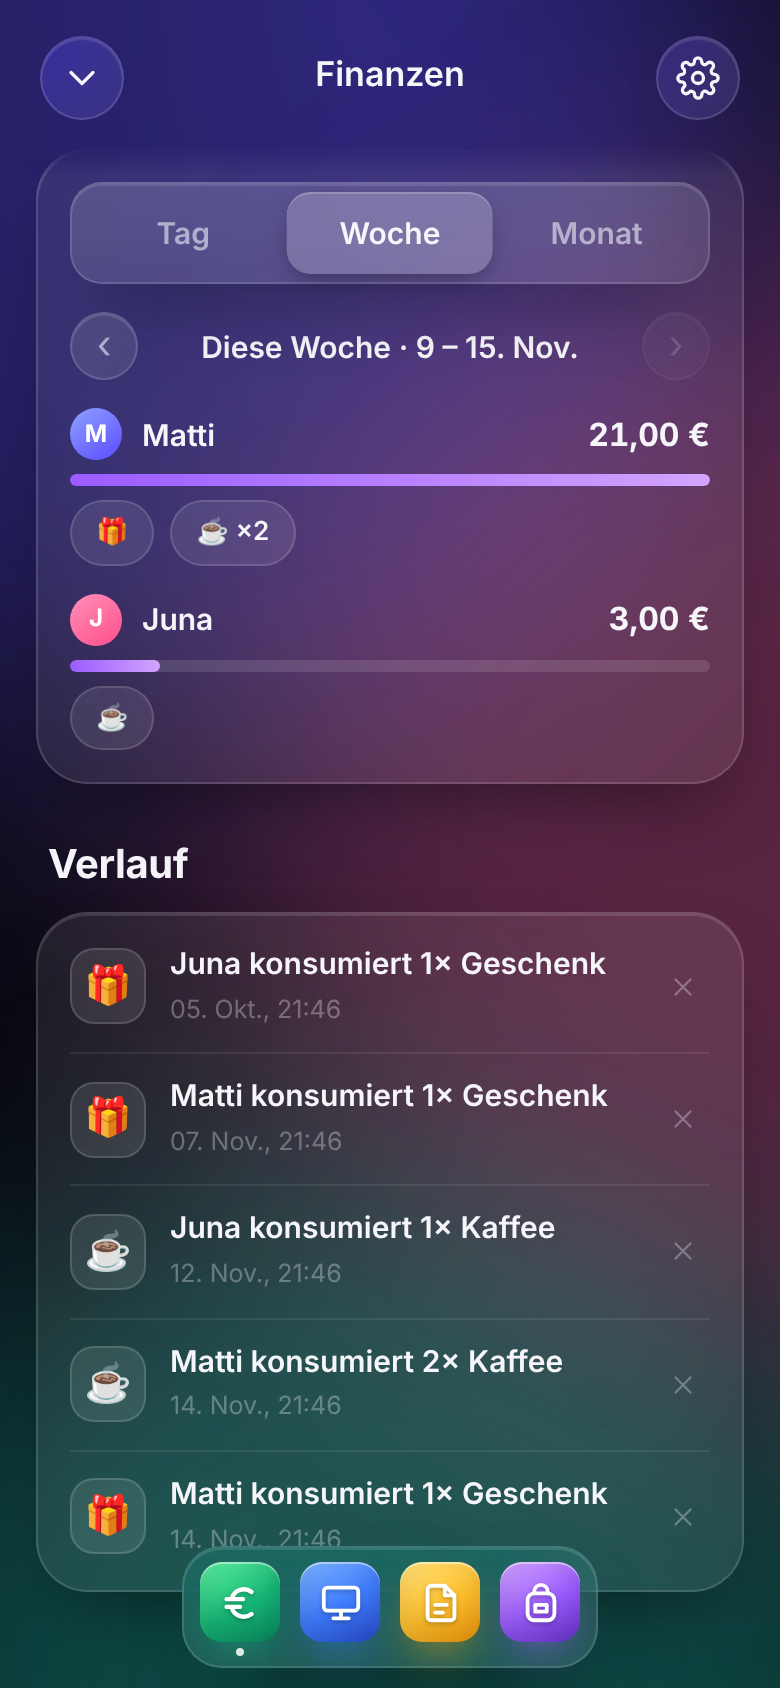
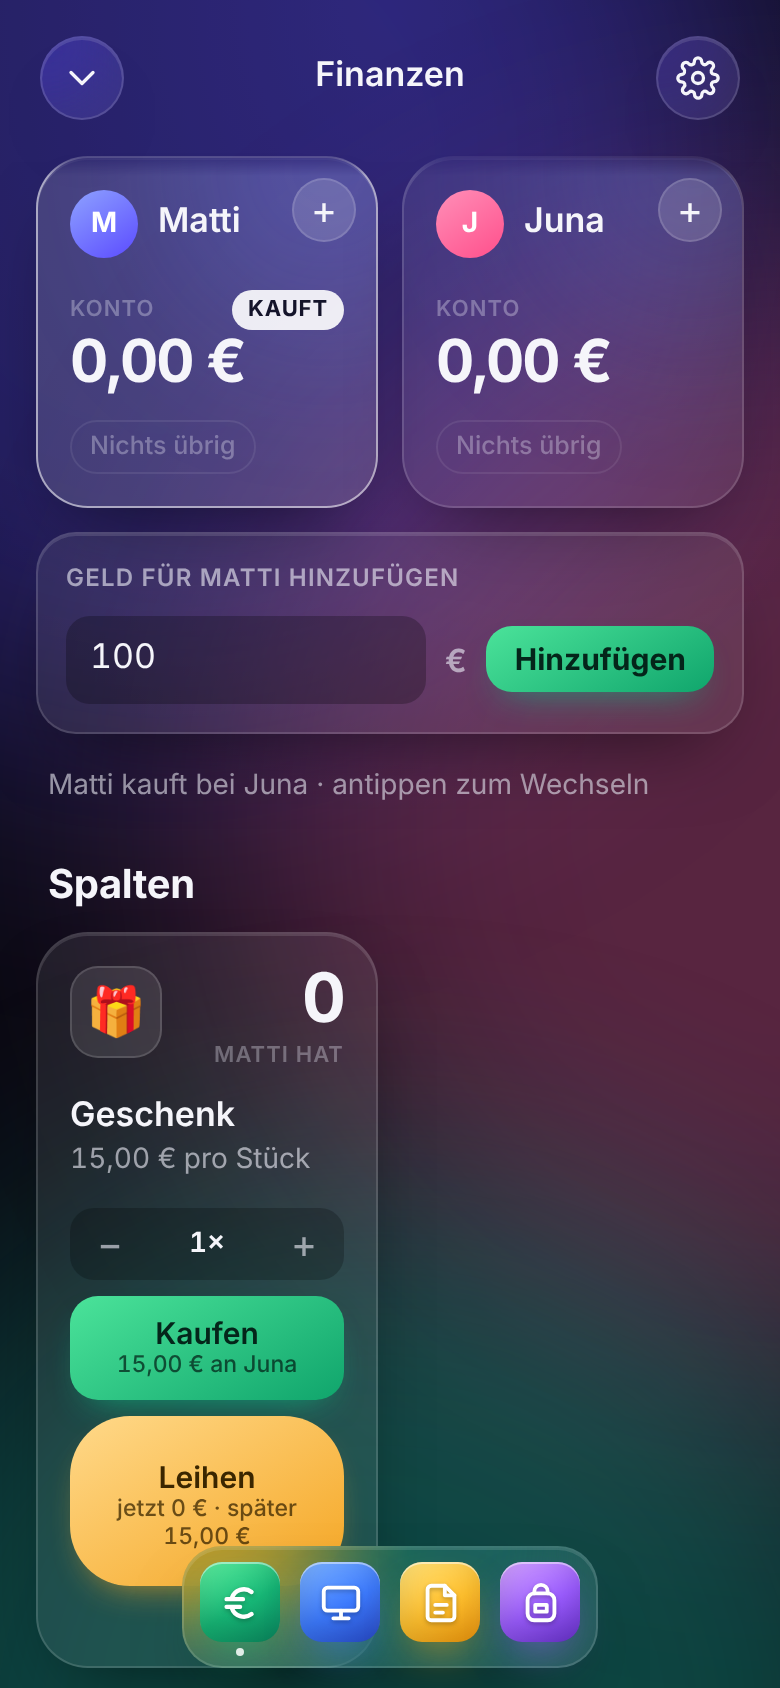
Geld hinzufügen: Plus auf der Kontokarte schreibt Startguthaben gut
Claude-Session: https://claude.ai/code/session_01HP4ZGYUmZQyzGZFQVh1CYh

diff --git a/app.js b/app.js
@@ -16,7 +16,7 @@
     notes: [],
     statMode: 'week', // Statistik: 'day' | 'week' | 'month'
     v: 3,
-    tx: [] // { id, itemId, from (wer handelt), to (bei wem), type: 'buy' | 'loan' (leihen) | 'settle' (geliehenes zahlen) | 'eat' | 'ret' (bezahltes zurück) | 'retl' (geliehenes zurück), qty, price, ts }
+    tx: [] // { id, itemId, from (wer handelt), to (bei wem), type: 'cash' (Geld einzahlen) | 'buy' | 'loan' (leihen) | 'settle' (geliehenes zahlen) | 'eat' | 'ret' (bezahltes zurück) | 'retl' (geliehenes zurück), qty, price, ts }
   });
 
   let state;
@@ -49,7 +49,8 @@
   let confirmNoteDel = false;
   let confirmMacReturn = false;
   let invPerson = null;
-  let statOffset = 0;      // 0 = aktueller Zeitraum, −1 = vorheriger …    // wessen Inventar gezeigt wird
+  let statOffset = 0;      // 0 = aktueller Zeitraum, −1 = vorheriger …
+  let cashFor = null;      // Person, für die gerade Geld hinzugefügt wird      // 0 = aktueller Zeitraum, −1 = vorheriger …    // wessen Inventar gezeigt wird
 
   const $ = (id) => document.getElementById(id);
   const esc = (s) => String(s).replace(/[&<>"']/g, (c) => ({ '&': '&amp;', '<': '&lt;', '>': '&gt;', '"': '&quot;', "'": '&#39;' }[c]));
@@ -75,8 +76,10 @@
   const paidUnits = (itemId, a, b) => sumTx(itemId, a, 'buy', b) + sumTx(itemId, a, 'settle', b) - sumTx(itemId, a, 'ret', b);
   // Geliehene, noch nicht bezahlte (und nicht zurückgegebene) Stücke von a bei b
   const debtUnits = (itemId, a, b) => sumTx(itemId, a, 'loan', b) - sumTx(itemId, a, 'settle', b) - sumTx(itemId, a, 'retl', b);
-  // Kontostand: Kaufen = Käufer −Preis, Verkäufer +Preis. Zurückgeben dreht das um. Konsumieren ändert nichts.
-  const balance = (key) => round2(state.items.reduce((sum, it) => sum + it.price * state.people.reduce((n, p) => n + (p.id === key ? 0 : paidUnits(it.id, p.id, key) - paidUnits(it.id, key, p.id)), 0), 0));
+  // Eingezahltes Geld einer Person
+  const cashOf = (key) => state.tx.reduce((sum, t) => sum + (t.type === 'cash' && t.from === key ? t.qty * t.price : 0), 0);
+  // Kontostand: Einzahlungen, plus Verkäufe, minus Käufe. Zurückgeben dreht den Kauf um. Konsumieren ändert nichts.
+  const balance = (key) => round2(cashOf(key) + state.items.reduce((sum, it) => sum + it.price * state.people.reduce((n, p) => n + (p.id === key ? 0 : paidUnits(it.id, p.id, key) - paidUnits(it.id, key, p.id)), 0), 0));
   const amount = (b) => (b > 0 ? '+' : '') + money(b);
   const tone = (b) => (b > 0 ? 'pos' : b < 0 ? 'neg' : 'zero');
 
@@ -109,19 +112,35 @@
       <div class="accts">${state.people.map((p) => {
         const bal = balance(p.id);
         return `
-        <button class="acct glass ${tone(bal)} ${p.id === b ? 'me' : ''}" data-action="buyer" data-k="${p.id}" aria-pressed="${p.id === b}">
+        <article class="acct glass ${tone(bal)} ${p.id === b ? 'me' : ''}" data-action="buyer" data-k="${p.id}" role="button" tabindex="0" aria-pressed="${p.id === b}">
+          <button class="addcash" data-action="cash" data-k="${p.id}" aria-label="Geld für ${esc(who(p.id))} hinzufügen">+</button>
           <div class="pair">${avatar(p.id)}<span>${esc(who(p.id))}</span></div>
           <div class="label">Konto${p.id === b ? '<span class="tag">kauft</span>' : ''}</div>
           <div class="amount">${amount(bal)}</div>
           <div class="chips">${heldChips(p.id) || '<span class="chip none">Nichts übrig</span>'}</div>
-        </button>`;
+        </article>`;
       }).join('')}
       </div>
+      ${cashFormHtml()}
       ${state.people.length > 2 ? `
       <div class="seg-label">Bei wem kauft ${esc(who(b))}?</div>
       ${pick('seller', state.people.filter((p) => p.id !== b), sl)}` : `
       <div class="ctx">${esc(who(b))} kauft bei ${esc(who(sl))} · antippen zum Wechseln</div>`}
       ${debtsHtml(b)}`;
+  }
+
+  // Eingabefeld, um einer Person Geld gutzuschreiben
+  function cashFormHtml() {
+    if (!person(cashFor)) return '';
+    return `
+      <div class="cashform glass">
+        <label for="cash-amount">Geld für ${esc(who(cashFor))} hinzufügen</label>
+        <div class="cashrow">
+          <input id="cash-amount" inputmode="decimal" placeholder="z. B. 100" aria-label="Betrag in Euro">
+          <span class="unit">€</span>
+          <button class="paybtn" data-action="cash-add">Hinzufügen</button>
+        </div>
+      </div>`;
   }
 
   // Offene geliehene Beträge der Person b, mit Knopf zum Zahlen
@@ -231,8 +250,16 @@
   function renderHistory() {
     const byId = Object.fromEntries(state.items.map((it) => [it.id, it]));
     const fmt = new Intl.DateTimeFormat('de-DE', { day: '2-digit', month: 'short', hour: '2-digit', minute: '2-digit' });
-    const rows = state.tx.slice().reverse().filter((t) => byId[t.itemId] && person(t.from) && person(t.to)).slice(0, 60).map((t) => {
-      const it = byId[t.itemId], P = esc(who(t.from)), R = esc(who(t.to)), sum = money(t.qty * t.price);
+    const rows = state.tx.slice().reverse().filter((t) => person(t.from) && (t.type === 'cash' || (byId[t.itemId] && person(t.to)))).slice(0, 60).map((t) => {
+      const P = esc(who(t.from)), R = esc(who(t.to)), sum = money(t.qty * t.price);
+      if (t.type === 'cash') return `
+      <div class="row" data-tx="${t.id}">
+        <div class="emoji">💶</div>
+        <div class="txt"><b>${P} zahlt ${sum} ein</b><small>${fmt.format(new Date(t.ts))}</small></div>
+        <div class="val pos">+${sum}</div>
+        <button class="x" data-action="undo" aria-label="Eintrag löschen">${X_SVG}</button>
+      </div>`;
+      const it = byId[t.itemId];
       const text = t.type === 'buy' ? `${P} kauft ${t.qty}× ${esc(it.name)} bei ${R}`
         : t.type === 'loan' ? `${P} leiht ${t.qty}× ${esc(it.name)} bei ${R}`
         : t.type === 'settle' ? `${P} zahlt ${R} ${sum} für Geliehenes`
@@ -513,6 +540,19 @@
     settings: openSheet,
     'settings-close': closeSheet,
     qty: (el, id) => { qty[id] = Math.min(99, Math.max(1, (qty[id] || 1) + Number(el.dataset.d))); renderItems(); },
+    cash: (el) => {
+      cashFor = cashFor === el.dataset.k ? null : el.dataset.k;
+      renderAccounts();
+      const i = $('cash-amount');
+      if (i) { i.scrollIntoView({ block: 'center' }); i.focus(); }
+    },
+    'cash-add': () => {
+      const i = $('cash-amount'), v = parseFloat((i && i.value || '').replace(',', '.'));
+      if (!(v > 0) || !person(cashFor)) { if (i) i.focus(); return; }
+      state.tx.push({ id: uid(), itemId: null, from: cashFor, to: cashFor, type: 'cash', qty: 1, price: round2(v), ts: Date.now() });
+      cashFor = null;
+      commit();
+    },
     buy: (el, id) => book(id, 'buy'),
     loan: (el, id) => book(id, 'loan'),
     'debt-pay': (el) => {
@@ -627,6 +667,7 @@
     const it = state.items.find((i) => i.id === e.target.closest('[data-id]').dataset.id);
     if (it) e.target.value = String(it.price).replace('.', ',');
   });
+  $('hero').addEventListener('keydown', (e) => { if (e.key === 'Enter' && e.target.id === 'cash-amount') actions['cash-add'](); });
   $('items').addEventListener('animationend', (e) => e.target.classList.remove('bump'));
 
   /* ---------- Uhr ---------- */

diff --git a/styles.css b/styles.css
@@ -310,8 +310,8 @@ body.sheet-open .sheet { transform: none; }
 .ctx { margin: 16px 6px 0; font-size: 14px; color: var(--muted); }
 .pick.in-sheet { padding: 0 2px; }
 
-button.acct { display: block; width: 100%; text-align: left; transition: transform .2s var(--ease), border-color .3s, background .3s; }
-button.acct:active { transform: scale(.97); }
+.acct[data-action] { cursor: pointer; display: block; width: 100%; text-align: left; transition: transform .2s var(--ease), border-color .3s, background .3s; }
+.acct[data-action]:active { transform: scale(.97); }
 .acct.me { border-color: rgba(255, 255, 255, .55); background: rgba(255, 255, 255, .14); }
 .acct .label { display: flex; align-items: center; justify-content: space-between; min-height: 20px; }
 .acct .tag { padding: 2px 8px; border-radius: 999px; background: rgba(255, 255, 255, .9); color: #14142a; font-size: 11px; font-weight: 700; letter-spacing: .04em; text-transform: uppercase; }
@@ -403,3 +403,14 @@ button.acct:active { transform: scale(.97); }
 .bar-track.stat i { background: linear-gradient(90deg, #9b5cff, #d3a4ff); transition: width .45s var(--ease); }
 .stats .chips { margin: 0; }
 .stats .empty { padding: 8px 0 2px; }
+
+/* ---------- Geld hinzufügen ---------- */
+.addcash { position: absolute; top: 10px; right: 10px; z-index: 1; width: 32px; height: 32px; border-radius: 50%; display: grid; place-items: center; font-size: 20px; line-height: 1; color: var(--text); background: rgba(255, 255, 255, .14); border: 1px solid var(--stroke); transition: transform .2s var(--ease), background .2s; }
+.addcash:active { transform: scale(.86); background: var(--glass-strong); }
+.acct .pair { padding-right: 34px; }
+.cashform { margin-top: 12px; border-radius: 20px; padding: 14px; display: grid; gap: 10px; }
+.cashform label { font-size: 12px; font-weight: 600; letter-spacing: .05em; text-transform: uppercase; color: var(--muted); }
+.cashrow { display: flex; align-items: center; gap: 10px; }
+.cashrow input { flex: 1; min-width: 0; width: 100%; background: rgba(0, 0, 0, .25); border: 0; outline: 0; border-radius: 12px; padding: 10px 12px; font-size: 17px; color: var(--text); font-variant-numeric: tabular-nums; user-select: text; -webkit-user-select: text; }
+.cashrow input::placeholder { color: var(--faint); }
+.cashrow .unit { color: var(--muted); font-weight: 600; }
